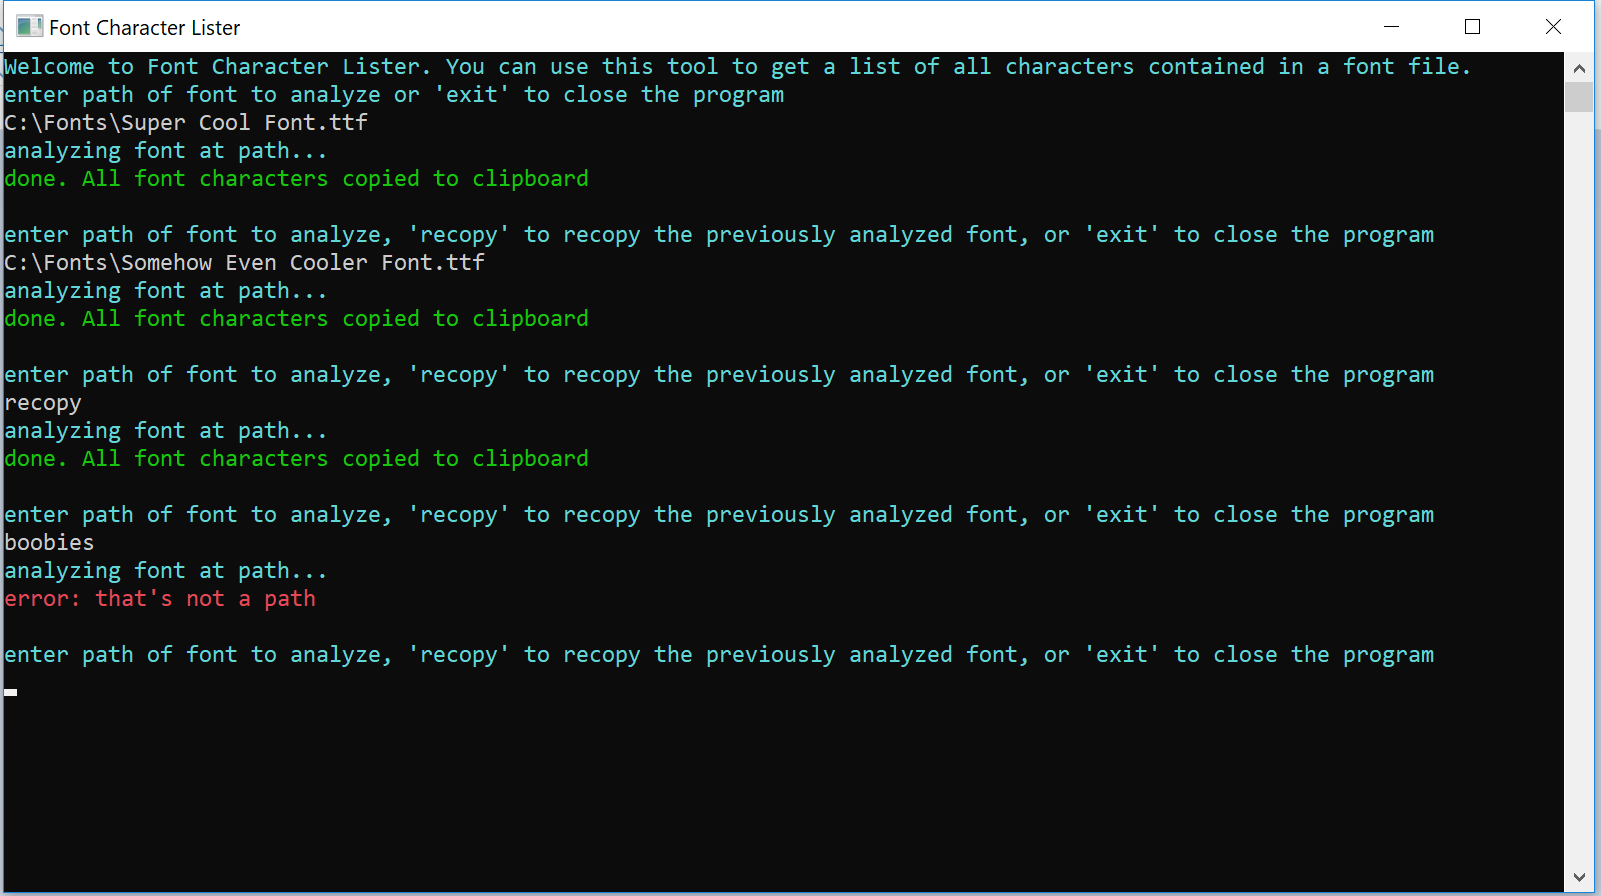
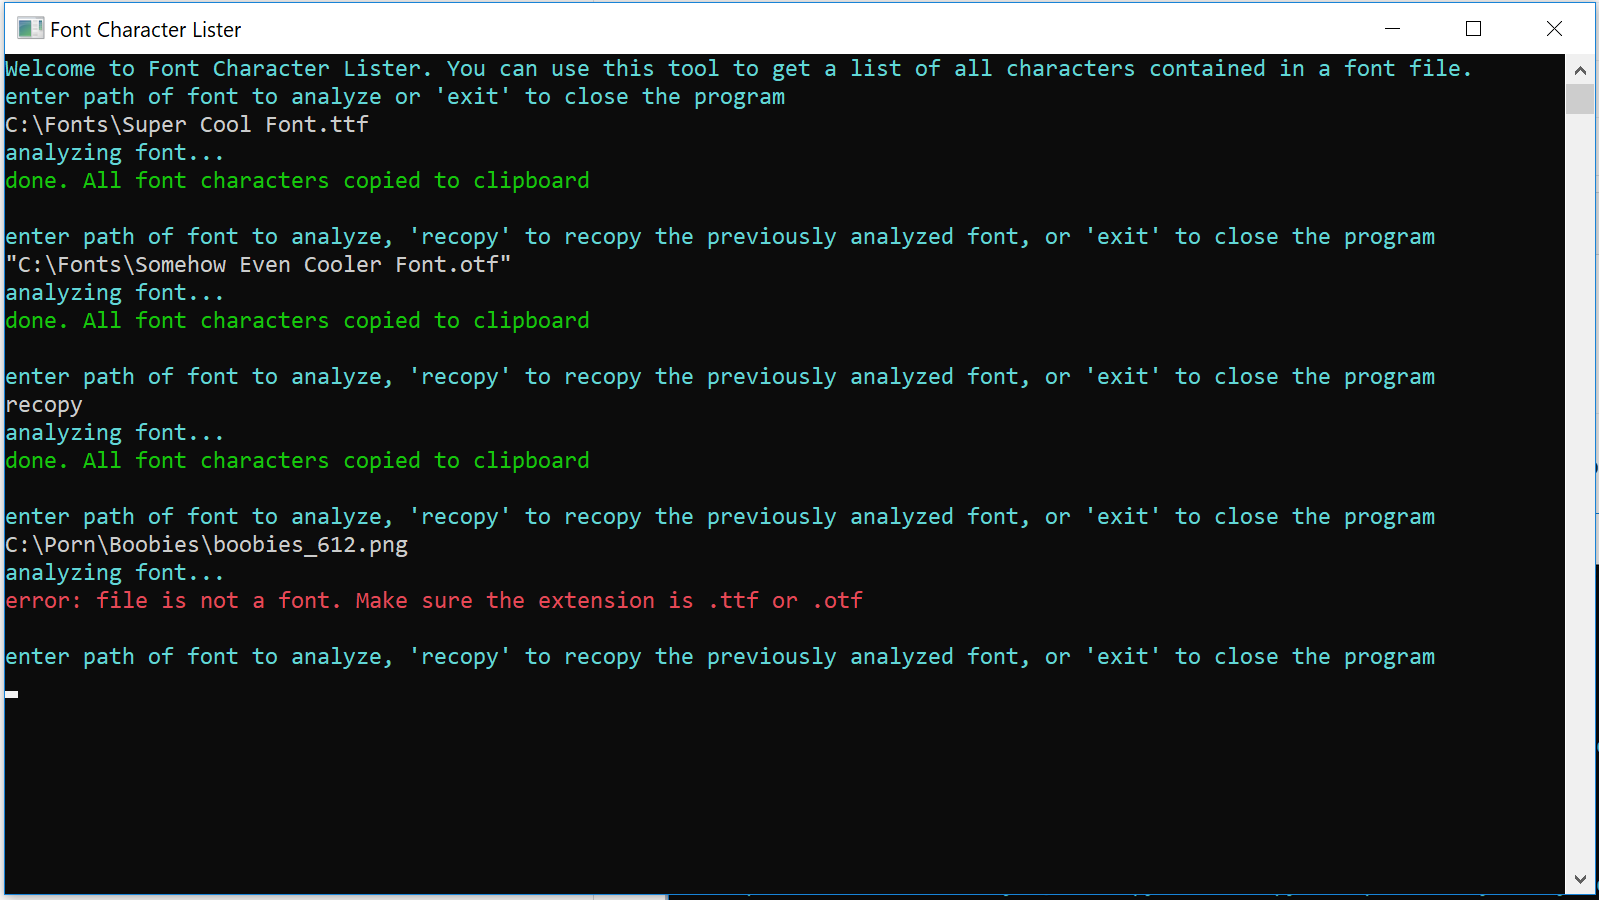
fdsafdaws

Changed region(s): [[0.0, 0.0, 1.0, 1.0]]

diff --git a/Font Character List/Program.cs b/Font Character List/Program.cs
@@ -34,7 +34,7 @@ namespace Font_Character_List
 
         static void CopyAtPath(string path)
         {
-            WriteLineColor("analyzing font at path...");
+            WriteLineColor("analyzing font...");
 
             GlyphTypeface font;
             try
